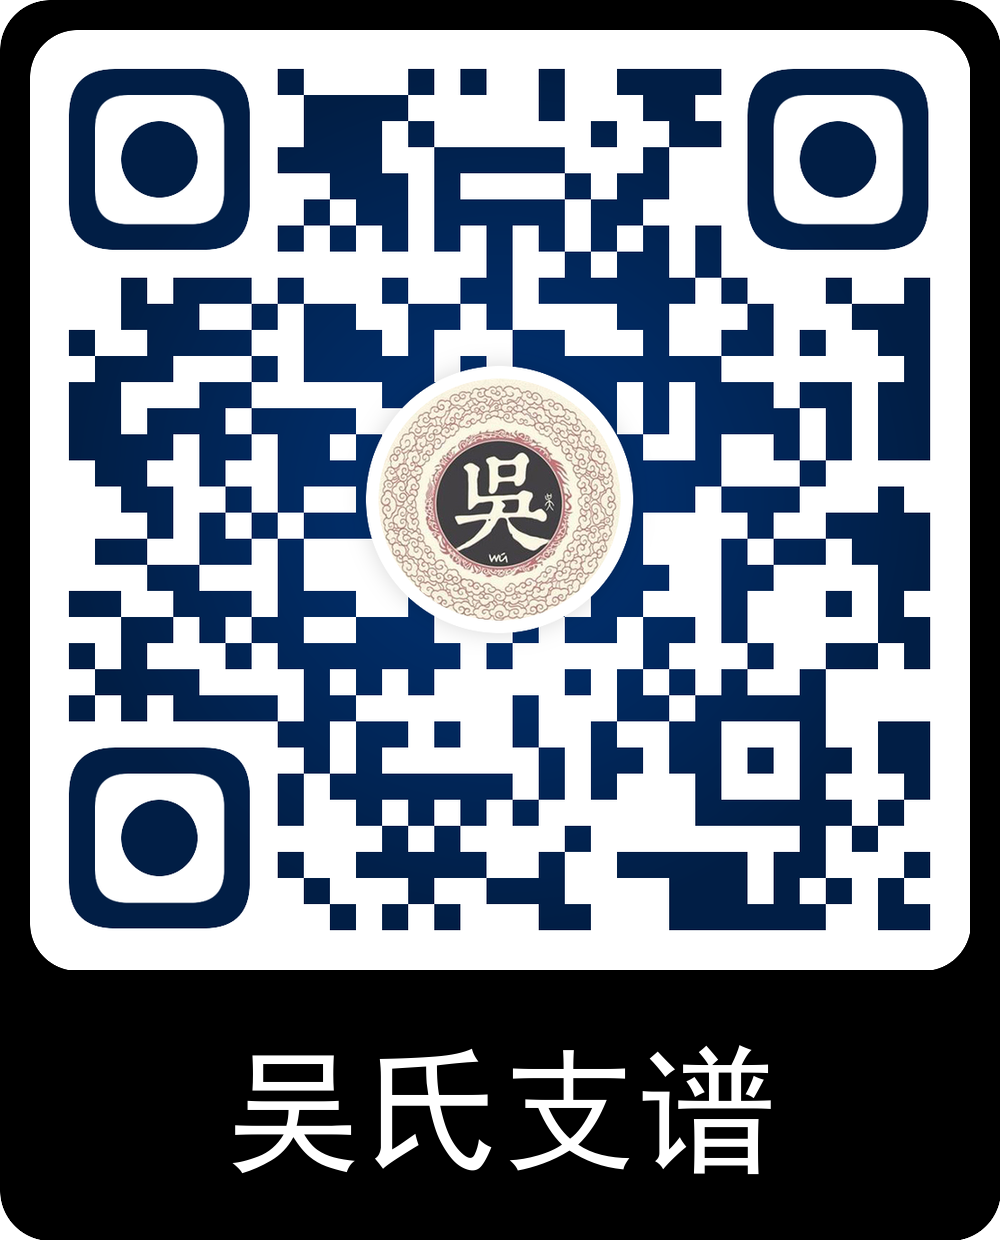
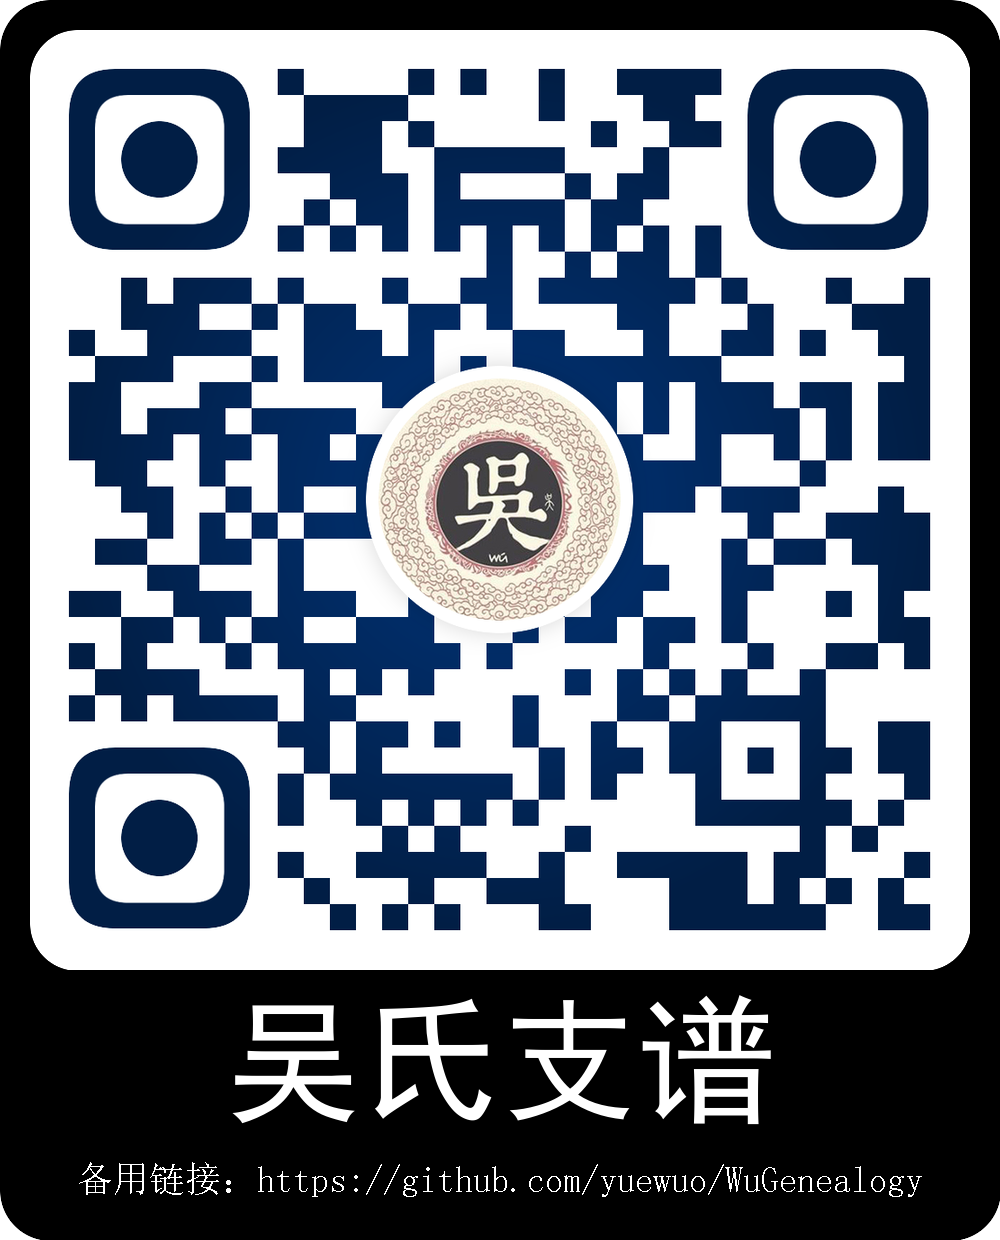
update qrcode and readme

diff --git a/index.html b/index.html
@@ -54,6 +54,14 @@ html, body {
 	border-radius: 3px;
     opacity: 0.7;
 }
+.help {
+    position: fixed;
+    bottom: 10px;
+    width: 100%;
+    text-align: center;
+    z-index: 100;
+    font-size: 80%;
+}
 </style>
 <style type="text/css" media="print">
 .search {
@@ -64,6 +72,9 @@ html, body {
 }
 jmnodes.theme-yue jmnode {
     color: black;
+}
+.help {
+    display: none;
 }
 </style>
 
@@ -77,6 +88,9 @@ jmnodes.theme-yue jmnode {
     <button class="search-button" onclick="show_person()">展开到人</button>
     <button class="search-button" onclick="show_all()" id="toggle_show_all">展开全部</button>
 </div>
+
+<!-- Help Information -->
+<div class="help">帮助和文档：<a target="_blank" href="https://github.com/yuewuo/WuGenealogy">https://github.com/yuewuo/WuGenealogy</a></div>
 
 <script type="text/javascript">
 const origin_data = ["肆凡公", [["保赤公\n唐氏", [["贵珍公", []], ["玉珍公\n陈氏", [["再芳公\n孙氏", [["吴轮元", []], ["吴轮才\n韦氏", [["吴洪儒\n韩氏", []], ["吴成儒", []], ["吴崇儒\n袁氏", [["吴應金\n韦氏", [["吴立中\n蔡氏", []], ["吴立田\n仇学兰", [["吴兆学\n沈洪兰", [["吴德路\n马霞", [["吴云海", []]]], ["吴德怀\n孙丽", [["吴云庚", []], ["吴云雨", []]]], ["吴德云", []], ["吴德琴", []]]], ["吴兆玉\n胡龙兰", [["吴德耀\n王小慧", [["吴怡", []], ["吴婧", []], ["吴云浩", []]]], ["吴德兰", []], ["吴德妹", []]]], ["吴兆富\n李秀玲", [["吴艳明", [["吴俊玲", []]]], ["吴艳华", []]]], ["吴兆旺\n陈书勤", [["吴德桥", []], ["吴巧云", []]]]]]]], ["吴應祥\n陈氏", [["吴立香\n张秀芳", []], ["吴立纯\n仇学珍", [["吴兆春\n严玉芳", [["吴德曲\n陈静", [["吴云伟", []], ["吴新悦", []]]], ["吴德敏", []]]]]], ["吴立良\n陈玉美", []]]], ["吴應和\n李氏", [["吴立培\n李玉兰", [["吴兆林\n卞云芳", [["吴德洪\n周同英", [["吴晓霞", []], ["吴云峰", []]]], ["吴德江\n卞小玲", [["吴云高", []], ["吴云兰", []]]], ["吴德超\n江卫秀", [["吴云祥", []], ["吴冬梅", []]]], ["吴德波\n施永花", [["吴云勤", []]]], ["吴小巧", []]]], ["吴兆庭\n乔巧英", [["吴德锐", []], ["吴德坚", []]]]]], ["吴立殿\n严素珍", [["吴兆成\n黄玉兰", [["吴德洋\n孙同芬", [["吴云根", []]]], ["吴德光\n蔡哓宁", [["吴云琪", []]]]]]]], ["吴立仿\n陆玉珍\n陶长英", [["吴兆山\n项洪玲\n领养吴彩", [["吴德彩", [["吴云静", []]]], ["吴德花", []], ["吴德兰", []]]]]], ["吴立柱\n贾国珍", [["吴兆连\n韦友苹", [["吴德伟", [["吴金遥", []], ["吴明宣", []]]]]], ["吴兆才\n董湘莲", [["吴德华", []], ["吴翠霞", []]]]]]]]]], ["吴纯儒\n孙氏", [["吴應生\n王氏", [["吴立基\n陈秀玲\n过继立元次子兆汉", [["吴兆汉\n陈书秀", [["吴正东\n朱小红", [["吴云清\n郑妍", [["吴进恒", []]]]]], ["吴旭东\n徐翠春", [["吴云唅", []]]]]]]]]], ["吴應全\n卞氏", [["吴立根\n陆氏", [["吴兆雄\n周云秀", [["吴德馀\n张茂洪", [["吴鸣峰\n李亚", [["吴雷霆", []]]]]], ["吴德林\n钱志勤", [["吴鸣寅\n杨大雷", []]]], ["吴德益\n蔡洪芳", [["吴鸣晓\n陈晶晶", []]]], ["吴德巧", []]]], ["吴兆洲\n孙月群", [["吴德明\n孙国秀", [["吴鸣春\n孙婷婷", []], ["吴鸣艳", []]]], ["吴德珍", []], ["吴德亚", []]]]]], ["吴立万\n陈英", [["吴兆娟", []], ["吴兆兰\n杨从伟", []]]], ["吴立元\n吉素玲\n次子兆汉过继", [["吴兆军\n张志兰", [["吴德喜\n陆玉芳", [["吴明星\n庄一晶", [["吴雷洋", []]]], ["吴勤", []]]], ["吴小巧", []]]], ["吴兆厂\n张洪秀", [["吴勤凤", []], ["吴勤英", []]]], ["吴兆信\n王龙苹\n领养德美", [["吴德美", []]]]]], ["吴立邦\n刘卓萍", [["吴兆祥", []], ["吴兆斌", []]]]]], ["吴應高\n顾氏", [["吴立桐\n蒋翠芳", [["吴兆泰\n吉勤", [["吴斌\n蔡芬玲", [["吴云龙", []]]], ["吴浩\n周其芳", [["吴云蛟", [["吴西", []]]]]], ["吴昌", []]]]]], ["吴立武\n卞俊兰", [["吴兆云\n陈秋红", [["吴德峰", [["吴鸣航", []]]]]], ["吴兆东\n张琴", [["吴鹏", []]]]]]]]]]]], ["吴轮全(特庸)\n孙氏", [["吴学儒\n陈氏", [["吴應锦\n王氏", [["吴立恺\n陈氏", []], ["吴立芝\n李氏", [["吴兆根\n刘氏", [["吴德龙\n陈玉巧", [["吴云汉\n黄玲", [["吴春梅", []]]], ["吴翠玲", []], ["吴大玲", []]]], ["吴德玉\n徐凤英", [["吴云军\n徐月美", [["吴志励", []]]]]], ["吴德郞\n陈国芳", [["吴云峰\n严金凤", [["吴琳琳", []]]], ["吴雅翠", []]]], ["吴德富\n孙洪霞", [["吴云辉\n张书丽", [["吴梦涵", []]]]]]]], ["吴兆华\n孙氏", [["吴德珍\n陈祝楼", [["吴留君", []], ["吴云美", []]]]]]]]]], ["吴應余\n陈氏", [["吴立成\n薛氏", [["吴兆其\n吉氏", [["吴德保\n周桂勤", [["吴大霞", []], ["吴云飞\n庄仇丹", [["吴莀娟", []]]]]]]], ["吴兆群\n江月珍", []], ["吴兆銮\n高正英", [["吴德国\n郭志兰", [["吴群玲", []]]], ["吴德连\n周玉林", [["吴云磊\n吴丹", [["吴雨桐", []]]], ["吴金金", []]]]]]]], ["吴立志\n陈氏", []]]], ["吴應怀\n袁氏", [["吴立香\n陈徐氏", [["吴兆堂\n张氏", [["吴德才\n陈月巧", [["吴云东\n袁妹", [["吴莹琼", []]]]]], ["吴德祥\n张秀英", [["吴云忠\n钟志清", [["吴奕彤", []]]], ["吴云娟", []]]], ["吴德俊\n孙书凤", [["吴云箫", []], ["吴云萍", []]]], ["吴德均\n吉玲", [["吴云清\n徐正娟", [["吴昱颉", []]]]]], ["吴德全\n宋志霞", [["吴云鹏\n吴金凤", [["吴子琦", []]]]]]]], ["吴兆万\n陈志英", [["吴德群\n孙素花", [["吴云龙\n聂静", [["吴浩然", []]]]]], ["吴德明\n宋志兰", [["吴云海\n仇婉群", [["吴欣怡", []]]]]], ["吴德亮\n李永林", [["吴云伟", []], ["吴云馀", []]]]]]]], ["吴立旺\n袁氏", [["吴兆元\n徐安凤", [["吴文兰", []]]], ["吴兆法\n倪胜英", [["吴德文\n熊玉佐", [["吴云云", []]]], ["吴秀兰", []], ["吴秀凤", []]]], ["吴兆有\n刘金凤", [["吴秀勤", []], ["吴秀妹", []], ["吴秀云", []]]]]], ["吴立周\n刘氏", [["吴兆桂\n宋国美", [["吴小艳", []], ["吴小娟", []]]]]], ["吴立凤\n高氏", [["吴兆田\n王银珍", [["吴德生\n及三女", []]]], ["吴兆才\n孙玉莲", [["吴德巡\n赵文婷", [["吴煜轩", []]]], ["吴小亚", []]]], ["吴兆喜\n严洪霞", [["吴德道", []]]], ["吴兆良\n孙殿兰", [["吴德勇\n陈燕", [["吴莀熙", []]]]]], ["吴兆融\n张才妹", [["吴德金", [["吴路微", []]]]]]]]]], ["吴應安\n袁氏", [["吴立洪\n陈氏\n领养兆生", [["吴兆生\n陈玉芳", [["吴德俊\n张炳", [["张逸", []]]]]]]], ["吴立楼\n陈氏", [["吴兆斌\n刘秀芬", [["吴德春", [["吴云华", []], ["吴云彩", []]]], ["吴德忠\n徐干妹", [["吴云迪", []]]], ["吴德珍", []]]]]]]], ["吴應龙\n孙氏", [["吴立标\n陈氏", [["吴兆军", []], ["吴兆清\n米陟伟", [["吴征南", []]]]]], ["吴立信\n陈氏", [["吴兆连\n宋国英", [["吴德清", []], ["吴德胜", [["吴梓菡", []], ["吴佳颖", []]]]]], ["吴兆富\n刘翠荣", [["吴德喜", []], ["吴德勤", []]]]]]]]]], ["吴瑞儒\n孙氏", [["吴應书\n孙氏", [["吴立有\n唐氏", [["吴兆荣\n曹秀英", [["吴德春", [["吴云华", []]]], ["吴德明\n徐祝琴", [["吴云艳", []]]], ["吴德均", [["吴云健", []]]]]], ["吴兆楼\n陈书英", [["吴德超", [["吴云星", []]]], ["吴德文\n兰中秀", [["吴云松", []]]]]], ["吴兆府\n陈玉銮", [["吴德平\n许久红", [["吴云玉", []]]], ["吴德芲", []], ["吴德云", []]]], ["吴兆全", []]]], ["吴立松", []], ["吴立府", []], ["吴立德", []]]], ["吴應长\n石氏", [["吴立庆", [["远迁失联", []]]], ["吴立进", [["远迁失联", []]]]]]]]]]]], ["仰山公\n陈尤氏", [["吴雅南\n唐氏", [["吴有儒\n陆氏", [["吴應清\n孙氏", [["吴立富\n陈氏", [["吴兆龙\n黄牡丹\n陈秀英", [["吴德海", []], ["吴大伟\n领养", []], ["吴佩芬", []], ["吴益贞", []]]], ["吴兆金\n陈兰英", [["吴德成\n郭立霞(故)\n郭立秀", [["吴云亚\n钱小玉", [["吴雷盛", []]]], ["吴慧", []]]], ["吴德勇\n刘启勤", [["吴云艳", []], ["吴云云", []]]], ["吴德安\n王万玉", [["吴云川\n王海梅", [["吴雷雨", []]]]]], ["吴德友\n袁秀花", [["吴巧梅", []], ["吴巧兰", []]]], ["吴红玉", []], ["吴红珍", []], ["吴红翠", []]]], ["吴兆崑\n刘亚芳", [["吴杰\n孙志勤", [["吴云飞\n陶飞", [["吴佳轩", []], ["吴佳浩", []]]]]], ["吴岱\n姜晓琴", [["吴云辉", []]]], ["吴珊", []]]], ["吴秀英", []], ["吴秀霞", []]]], ["吴立广\n卞氏", [["生三女", []]]], ["吴立喜\n朱才保", [["生二女\n子兆柱夭折", []]]]]]]], ["吴明儒\n孙氏", [["吴應谦", [["生三女", []]]]]], ["吴良儒\n尤李氏", [["吴應科\n孙氏", [["吴立国\n卞月珍", [["吴兆桂\n卞秀兰\n陈明", [["吴德轩", [["吴鸣宇\n徐伟伟", [["吴雷蔚", []]]]]], ["吴静", []]]], ["吴兆干\n欧洪兰", [["吴旭\n蔡琴", [["吴鸣朗\n董梅", [["吴雷春", []]]]]], ["吴芳", []], ["吴芬", []]]], ["吴兆岳\n徐明曙\n祁云兰(离)", [["吴峰", []], ["吴云梦", []]]], ["吴兆康\n孙国珍", [["吴辉\n陈红勤", [["吴丹丹", []]]]]], ["吴兆健\n陈忠玉", [["吴川\n姜玲", [["吴鸣润", []], ["吴鸣灿", []]]]]]]]]]]]]], ["吴金元", [["吴彦儒\n尤氏", [["吴應鑾\n申氏", []]]]]], ["吴高元\n陆氏", [["吴德儒\n王氏", [["吴應松\n顾氏", [["吴立玉\n贾凤英", [["吴兆清\n王亚珍", [["吴德普", []], ["吴德育\n陈国娟", [["吴云豪\n李立玉", [["吴雷莲", []], ["吴伊涵", []]]]]], ["吴德森\n陈爱林", [["吴云华", []]]]]], ["吴兆柏\n贾仁秀", [["吴德茂\n张审花", [["吴佳怡", []]]], ["吴慧香", []]]], ["吴兆明\n沈菊芳", [["吴德军", [["吴晶晶", []]]]]]]], ["吴立顺\n耿建英", [["吴兆月\n夏国勤", [["吴慧萍", []], ["吴德穆", []]]], ["吴兆瑞\n萧干霞", [["吴春雨\n刘娟", [["吴炜", []]]]]]]], ["吴立标\n钱氏", [["吴兆洋\n王少勤", [["钱军", []]]], ["吴兆益\n陈亚芳", [["钱陈", []]]], ["钱月宾", []], ["钱洪宾", []]]], ["吴立荣\n薛文英", [["吴兆石\n卞单琴", [["吴德成", []], ["吴德伟", []]]], ["吴兆全", []]]]]], ["吴應才\n孙氏", [["吴立洪\n陈氏", [["生二女", []]]], ["吴立容", []]]], ["吴應萬\n韦氏", [["吴立群\n韦氏", [["吴兆朋\n陈玉庭", [["吴德进\n宗林霞", [["吴云伟", []]]], ["吴德山\n朱伏叶\n施娟(离)", [["吴云妍", []], ["吴云萍", []]]], ["吴德芳", []]]], ["吴兆祥\n孙汉凤", [["吴德选\n赵月菊\n王梅(离)", [["吴云舜", []], ["吴旻萱", []]]], ["吴德军\n王芳", [["吴云帆", []]]]]], ["吴兆恺", []], ["吴兆兵\n胡士云", [["吴艳", [["吴骆子玉", []]]], ["吴林", [["吴陈昊", []]]]]], ["吴兆庆\n倪正英", [["吴德力\n黄万红", [["吴云迪", []]]], ["吴德富\n严丽", [["吴云睿", []]]]]], ["吴兆章\n王玉兰", [["吴德松\n殷丽娜", [["吴沐泽", []]]], ["吴小梅", []]]], ["吴秀勤", []]]], ["吴立桃\n周秀芳", [["吴兆如\n季汉花", [["吴德海\n孟巧英", [["吴越", []]]], ["吴德建\n乔莹", [["吴清扬", []]]], ["吴志芳", []]]], ["吴兆秀", []], ["吴兆花", []]]], ["吴立岗\n蔡氏", [["吴兆勤\n董汉凤", [["吴志萍", []], ["吴志红", []]]]]]]], ["吴應春\n袁氏", [["吴立门\n张洪荣", [["吴兆奎\n陈林", [["吴德领\n张海生", [["吴帆淇", []]]]]], ["吴兆平\n尤茂兰", [["吴德功\n王茂勤", [["吴铭翰", []], ["吴云凡", []]]]]], ["吴兆灿\n李翠秀", [["吴德克\n蔡芬", [["吴佳瑜", []]]]]], ["吴兆新\n陈开转", [["吴琼\n蔡文君", [["吴佳颖", []]]], ["吴涧", []]]], ["吴兆杰\n周国翠", [["吴限\n郑丹红", [["吴令仪", []]]]]], ["吴兆茂\n陈开荣", [["吴德溪\n谭荣", [["吴谭子蕊", []]]], ["吴君", []]]]]]]], ["吴應山\n张氏", [["吴立政\n朱云珍", [["吴兆伟\n蔡丽", [["吴潇飞", []]]]]], ["吴立俊\n周翠玲", [["吴兆超\n张苹", [["吴德志\n李勇", [["吴铭杨", []]]]]], ["吴兆胜\n李惠玲", [["吴蓉蓉", []]]], ["吴兆燕", []]]]]], ["吴顺祥<nolink>", [["吴锦堂", [["吴波", []], ["吴红", []]]], ["吴锦梅", []]]]]]]]]]]]]]]]

diff --git a/README.md b/README.md
@@ -24,3 +24,13 @@ genealogy of Wu's family
 
 吴越（yue.wu@yale.edu）
 
+## 维护指南
+
+在 `./previous` 文件夹内下载最新的excel表格，修改后保存为新的文件，然后导出为csv格式（UTF-8编码），保存在本项目根目录的 `data.csv` 文件（覆盖旧文件）。
+
+运行 `python3 ./parse_data.py` 解析csv文件（`./data.csv`）生成树型数据 `./data.json`。
+
+打开 `./data.json` ，复制所有内容，打开 `./index.html` ，找到 `origin_data` 变量，并替换其后的JSON数据。
+
+本地打开 `./index.html` ，检查更改是否生效，是否有明显问题。
+
